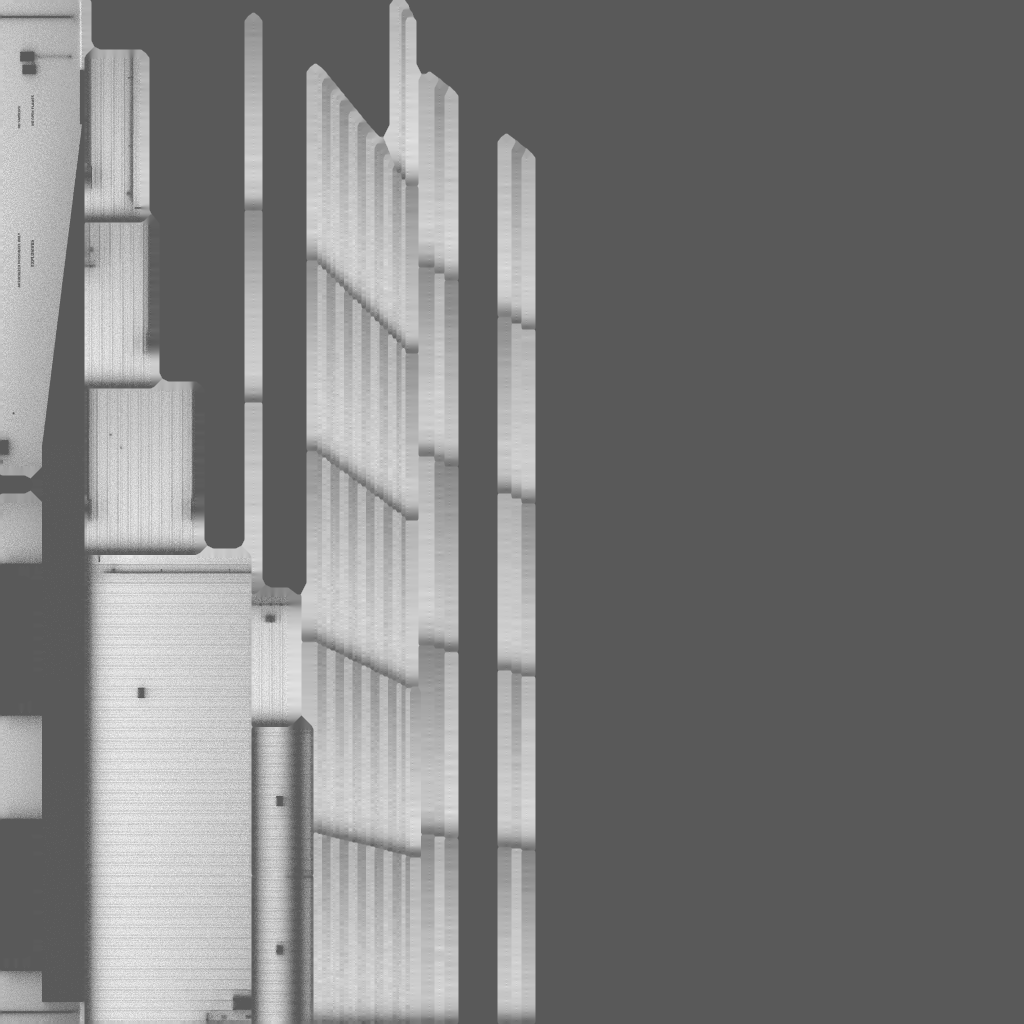
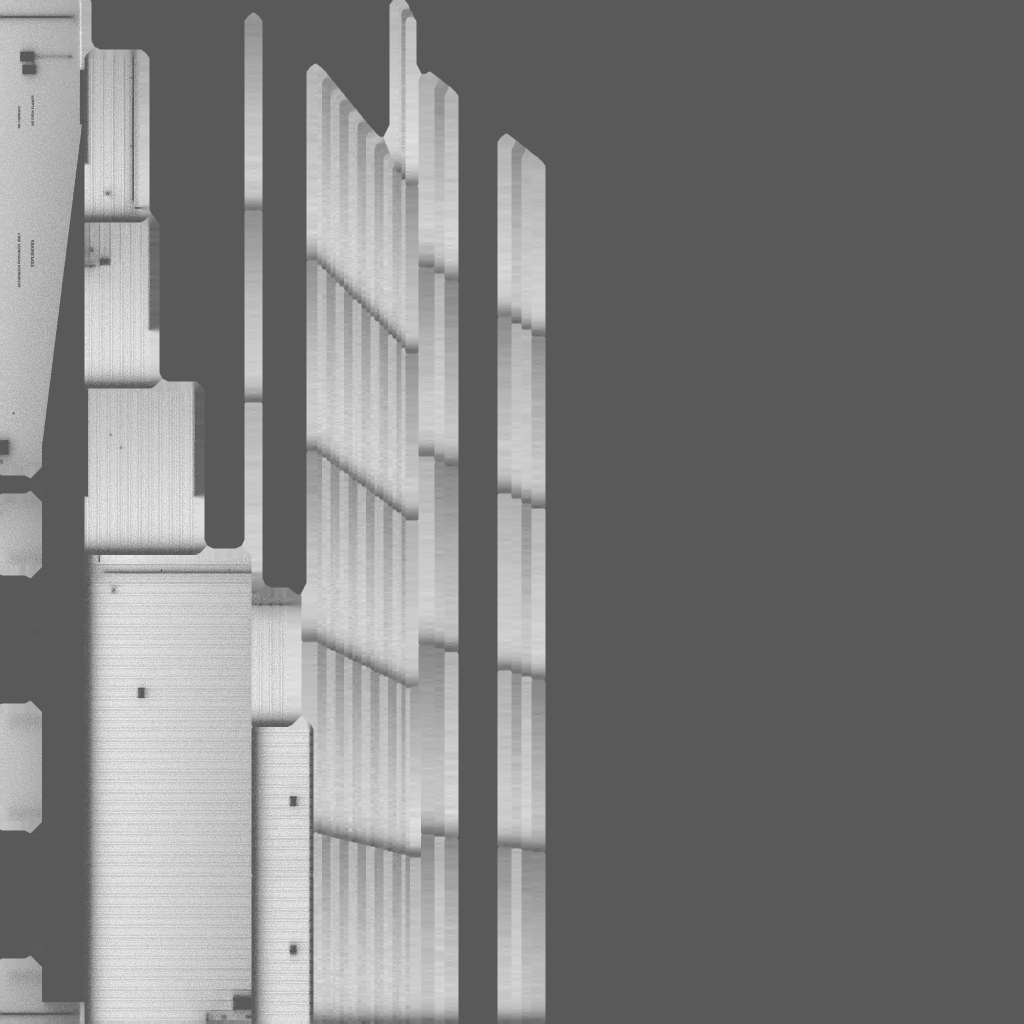
ESTADO: revision independiente de logica de MIL y correcciones
Claude-Session: https://claude.ai/code/session_01QzJUdvU2aDqqRZrKajniAp

diff --git a/blackisle-kit-edificios/entrega/ESTADO.md b/blackisle-kit-edificios/entrega/ESTADO.md
@@ -802,3 +802,54 @@ bajo la red, pasillo interior de la tienda), más una revisión de lógica de us
   los armeros (contactos, no cruces), focos colgados de la cumbrera. El rollo de la pared enrollada de la tienda queda a
   1,70–1,75 m: es la altura real de una TEMPER (alero de 6'9"); el cliente se queda afuera del mostrador.
 - Lo que el verificador sigue marcando son contactos de apoyo (piezas sobre su soporte, abrazaderas, amarres) revisados a la vista.
+
+## MIL_1 + MIL_2 · revisión independiente de lógica y correcciones (2026-11-19)
+Un revisor independiente (sin mis conclusiones) recorrió las 25 vistas de auditoría y levantó 24 observaciones. Una de ellas
+desmiente lo que yo había dado por correcto arriba: la "chicana" de 4 barreras dejaba un carril recto de 2 m alineado con el
+portón (las filas no se traslapaban). Lo que se corrigió:
+- **Acceso vehicular (grave)** → punto de control (`ecp()`, UFC 4-022-01 en chico): canal de 12 barreras Jersey conectadas
+  pin-and-loop que nace en la malla (8,4 m entre caras, hasta y −38,7: al portón solo se llega por el canal), serpentín de
+  dos tramos de 4,9 m que salen alternados de cada muro y se traslapan 1,7 m (paso de 3,3 m, obliga a una S lenta), pluma de
+  7,6 m a 7,45 m de la guarnición (zona de revisión de un vehículo) y puesto de guardia de costales de muro doble junto al
+  gabinete de la pluma, del lado de adentro.
+- **Franja sin acabado al pie de la rampa (grave)** → la grava excluía la caja andén+rampa completa; ahora excluye cada uno
+  por separado.
+- **Tienda de munición expuesta tras la malla** → 9 muros T (13,7 m) entre la malla y el testero cerrado; la avanzada se
+  recorre 0,3 m al norte (9,5; −11,1) y sube a 0,06 m (sobre la grava); el viento de cumbrera del testero cerrado se acorta
+  a 2,0 m para librar los muros T.
+- **Puesto de tirador bajo y delgado; parapeto de la torre a 0,6 m** → `sandbag_ring(thickness="double")`: hiladas de soga
+  doble (anillos a r ∓ 0,14) alternadas con tizones radiales (FM 5-103, ~0,55 m), 12 hiladas ≈ 1,17 m; la torre lleva 10
+  hiladas (≈ 1,05 m, a la altura del pecho del centinela de pie). Las hiladas bajas usan el saco de 24 × 20 (sin facetas).
+- **Cortinas montadas por fuera, cadena colgando al patio** → montadas por dentro (`rollup_door(inside=True)`): guías y
+  capota del rollo sobre el cerramiento, cerrojos con candado y cadena por dentro; vano enmarcado (`door_frame`: jambas de
+  canal C, cerramiento, PTR anclado al concreto, remate exterior en J con gotero); las marcas de palanca quedan en la cara de
+  afuera de la barra inferior. Las duelas ahora tienen las dos caras.
+- **Arbotantes tapados por la capota y la marquesina** → sin capota afuera, el arbotante sobre cada cortina alumbra el vano; el
+  de la puerta de personal pasa al costado, fuera de la sombra de la marquesina.
+- **Defensas del andén fuera del ancho del camión (±1,785 m)** → ±1,15 m, junto a los bordes del nivelador de 2 m (MHI,
+  Cisco-Eagle, Blue Giant).
+- **Andén sin escalera de personal** → escalera de acero en la cabecera poniente (`dock_stair`, IBC 1011: 7 contrahuellas de
+  157 mm, huellas de 280 mm, zancas MC 200, peldaños de rejilla con nariz antiderrapante, barandales con prolongaciones y
+  descanso de concreto).
+- **Cámara montada sobre la bajada pluvial** → cámaras a 1,0 m de las esquinas; la bajada del frente-poniente a 0,40 m (su
+  salpicadero ya no toca el andén).
+- **Bajante del pararrayos suelta** → cada bajada va pegada a la lámina del hastial con grapas de cobre cada 0,9 m (NFPA 780),
+  dobla sobre el remate, lleva tubo protector de PVC en los últimos 1,8 m y entra a un registro de prueba con tapa.
+- **Letrero SUPPLY ilegible** → letras y filete blancos; además, letrero de triplay de 1,2 × 0,6 m con flecha al mostrador
+  amarrado con cinchos a la cara de afuera del HESCO del sur (se lee desde el portón).
+- **Generador sin conexión, escape a 1,3 m de la lona, bidones en el paso de clientes** → generador a 3 m de la pared de atrás
+  con el escape vertical del lado de afuera; bidones juntos a un costado; cable SOOW del tablero de cargas al reflector (conector
+  hembra acoplado a la clavija de su rollo) y a la serie de focos (sube por el testero cerrado y entra por una manga de lona con
+  cordón); protector de cable de dos canales en el paso del testero; varilla de tierra con conector de bellota y cable verde.
+- **Vientos en el paso** → banderolas de cinta naranja en todos los vientos de la tienda y de la red (a ~0,55 m del piso). Con
+  el verificador se comprobó que ningún viento cruza el paso de la rampa al testero norte (las 4-5 "cuerdas" eran perspectiva).
+- **Aislante interior que parecía hojas sueltas** → manta continua de la cabeza del concreto al alero, apretada en cada larguero
+  con su comba entre ellos y traslapes verticales cada 1,22 m, cortada alrededor de los vanos.
+- Se queda como está, con su razón: rampa de 14 % (los fabricantes de rampas de andén trabajan entre 10 y 15 %; el 1:12 de
+  IBC/ADA es para rampas de ruta accesible, y el personal ahora tiene la escalera) — fuente: Copperloy, "Dock to ground ramps";
+  armas montadas en la jaula (mortero en bípode, ametralladora en trípode) como exhibición del armero; bajadas del fondo
+  descargando en el callejón trasero sobre salpicaderos (hay grava drenante).
+- Verificador de coherencia (`coh/coherence.py`) después de los cambios: 389 piezas, 10 parejas que se tocan, todas contactos
+  de diseño (lazos y pasadores de las Jersey conectadas, fusiles en armeros, clavija dentro del conector, cable por la manga de
+  lona, esquinas de muros T con la malla); zonas libres nuevas (carril de revisión, pasos del serpentín, pie de la escalera,
+  paso rampa → tienda, frente y espalda de cada cortina) sin nada adentro.
